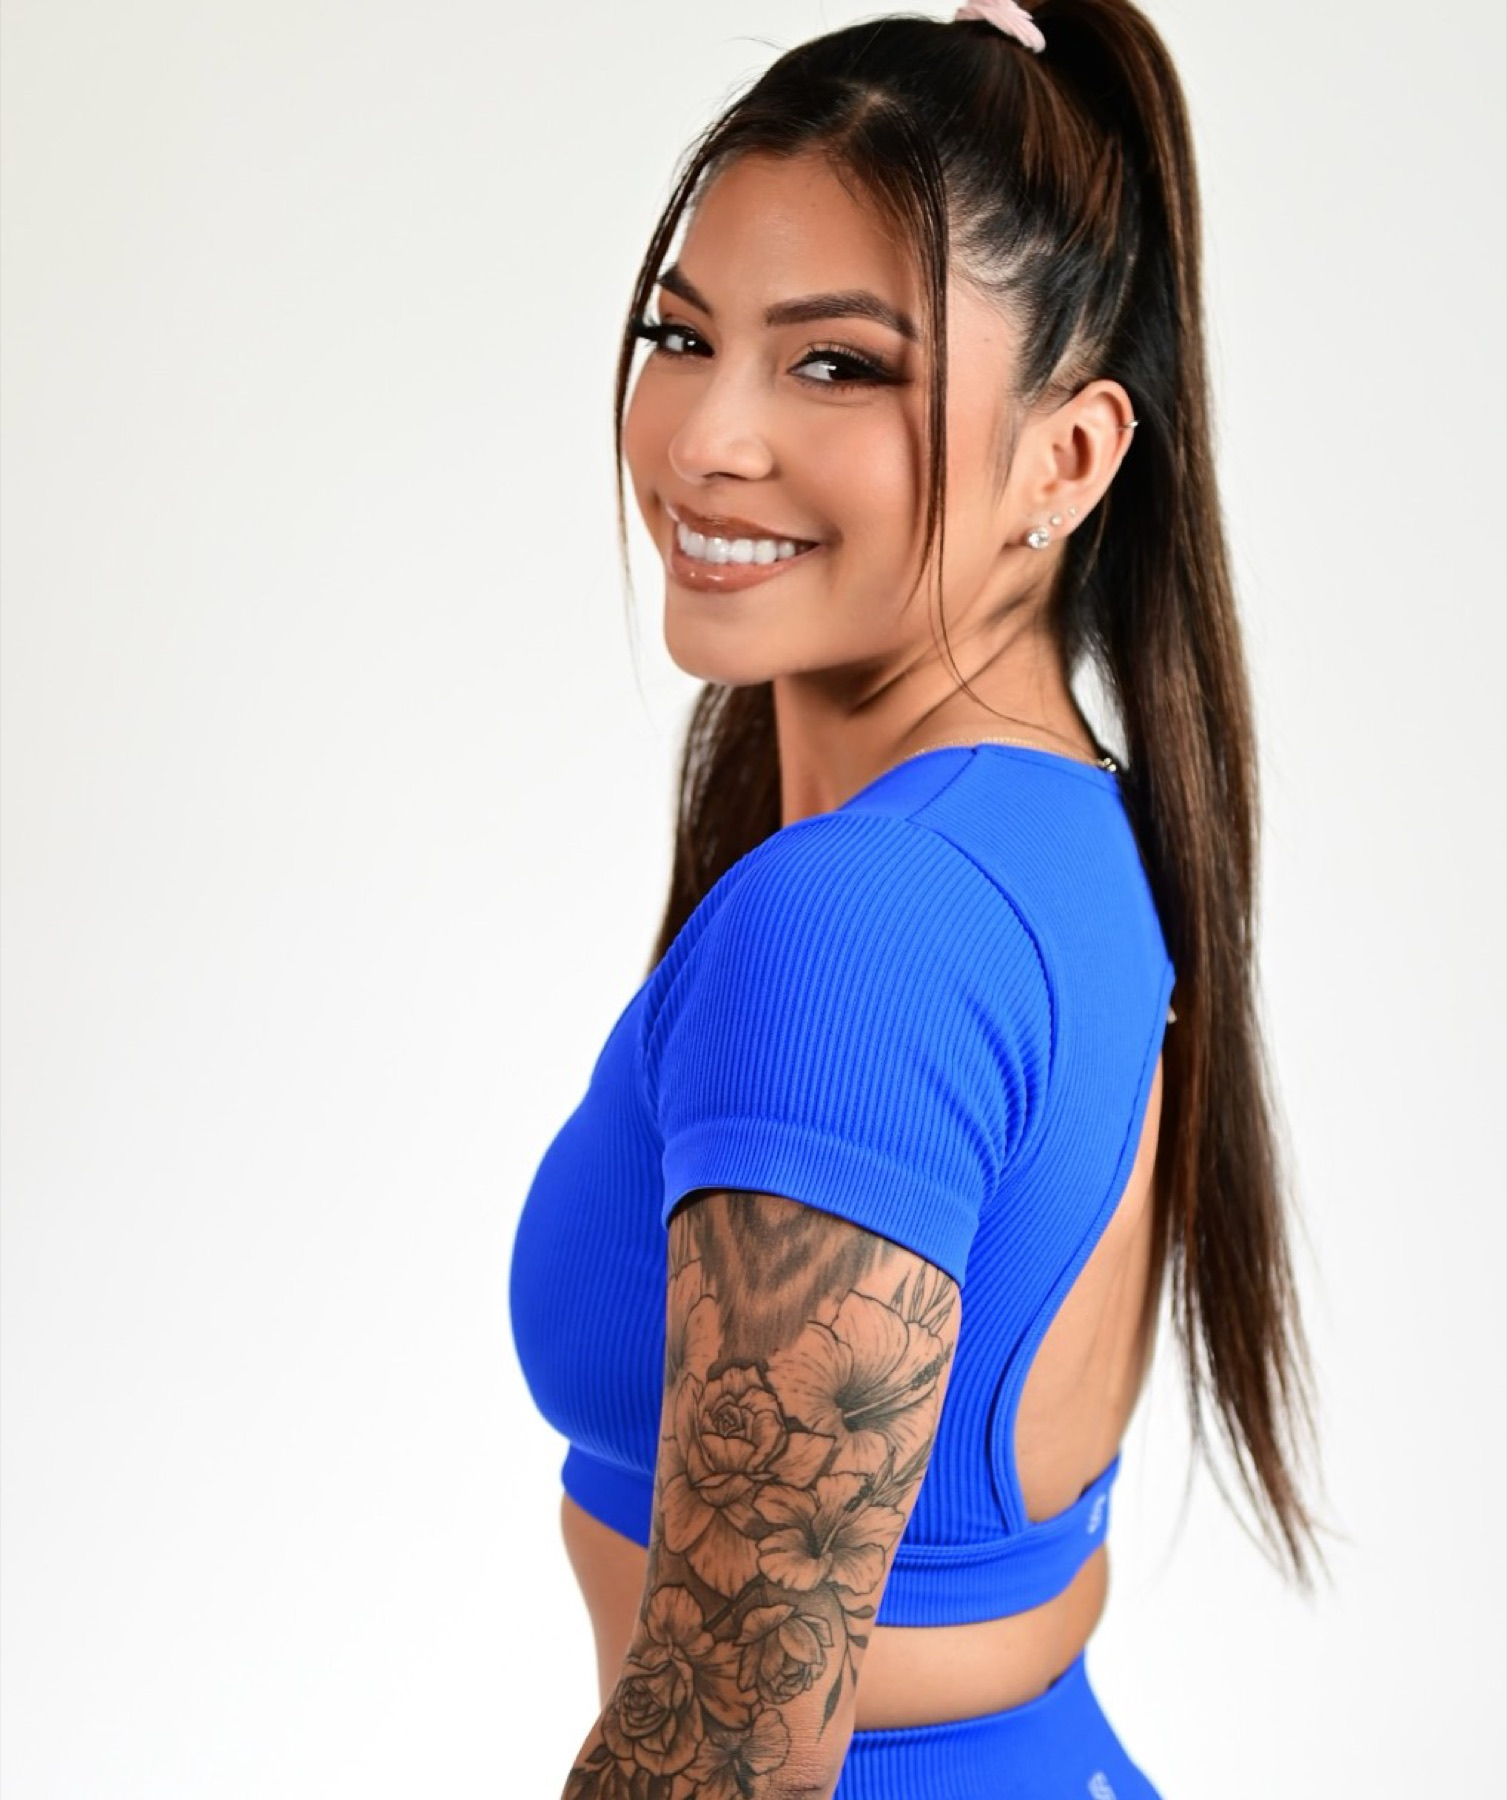
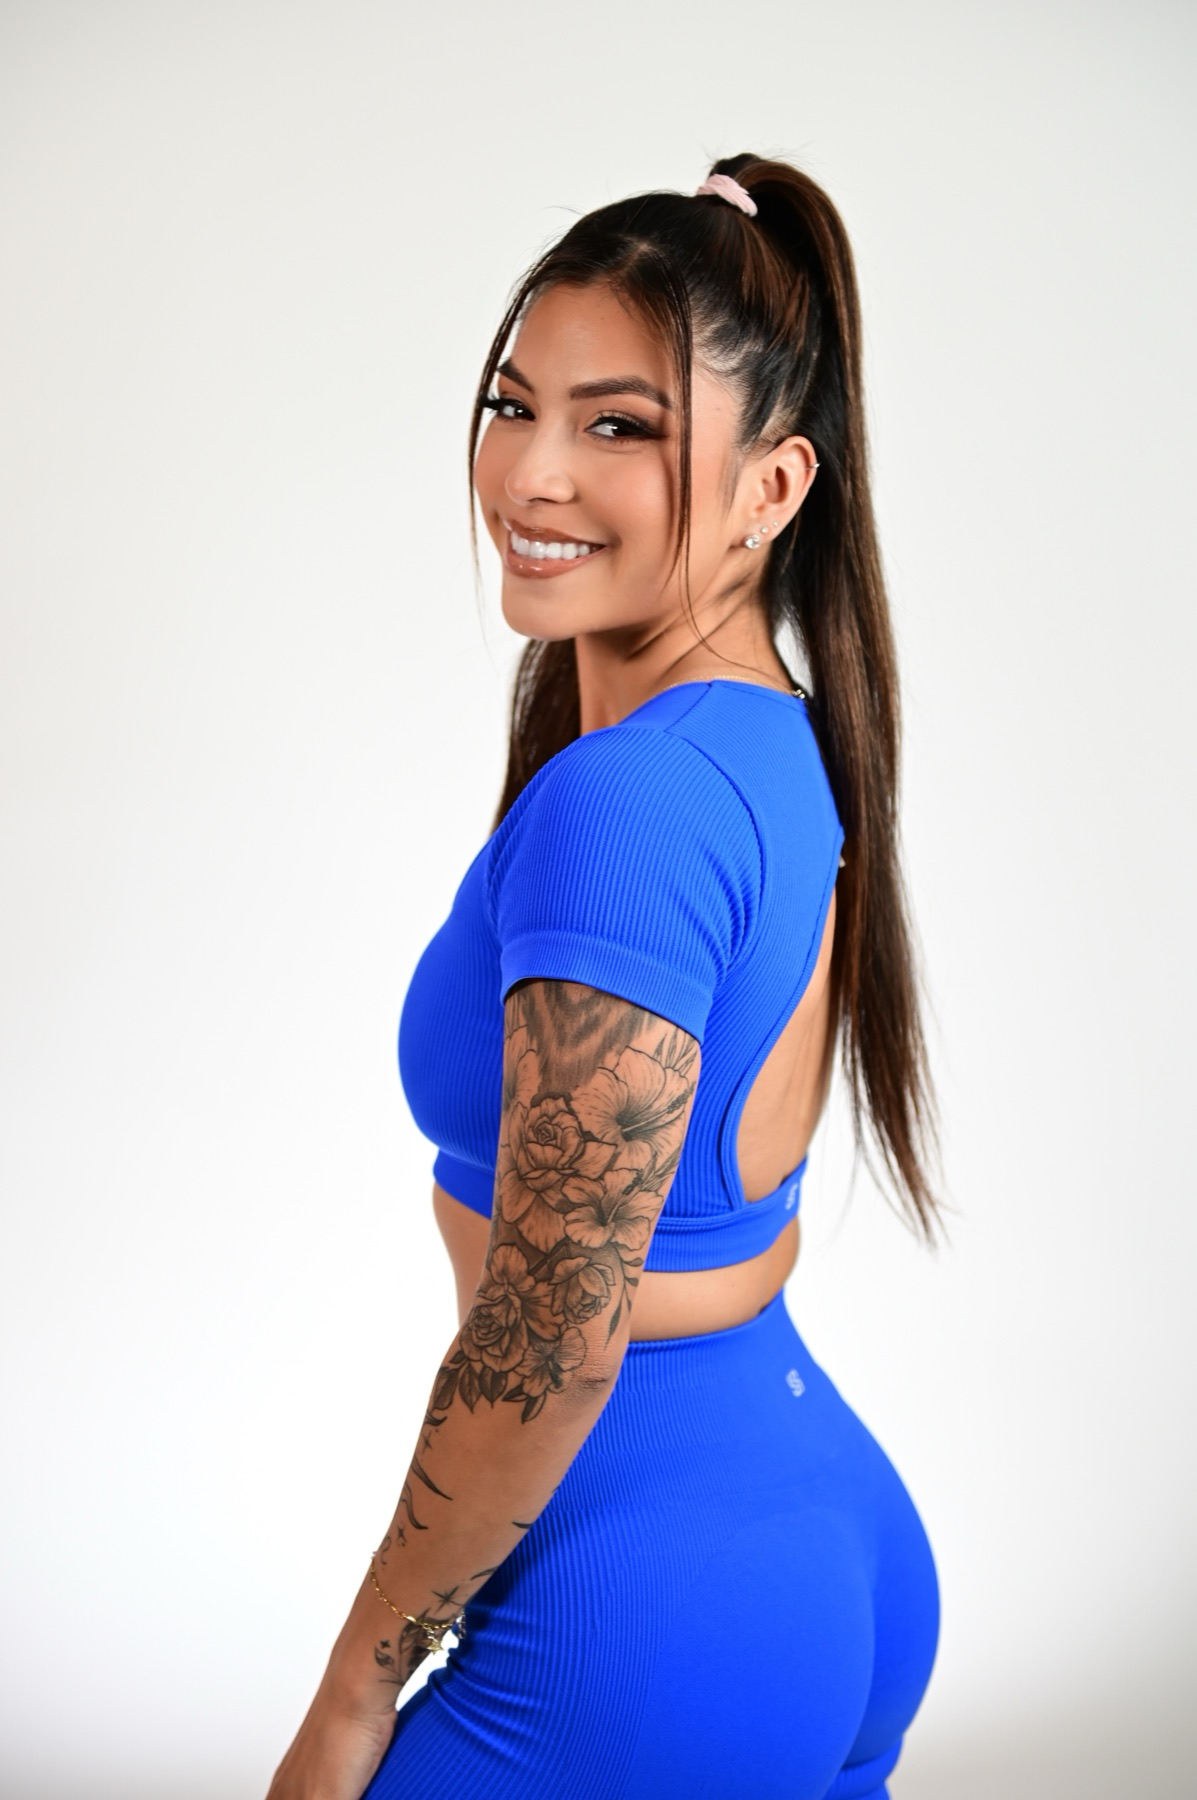
Swap in new Coach Starr photo (full-body version) with cache-bust (#33)

diff --git a/index.html b/index.html
@@ -143,7 +143,7 @@
       </article>
 
       <article class="card" data-card>
-        <img class="card__img" src="images/coach_starr.jpg" alt="Coach Starr of FitStarr Studio" />
+        <img class="card__img" src="images/coach_starr.jpg?v=2" alt="Coach Starr of FitStarr Studio" />
         <div class="card__body">
           <div class="card__partner">Led by Coach Starr · FitStarr Studio</div>
           <h3 class="card__title">Pilates Zone</h3>
